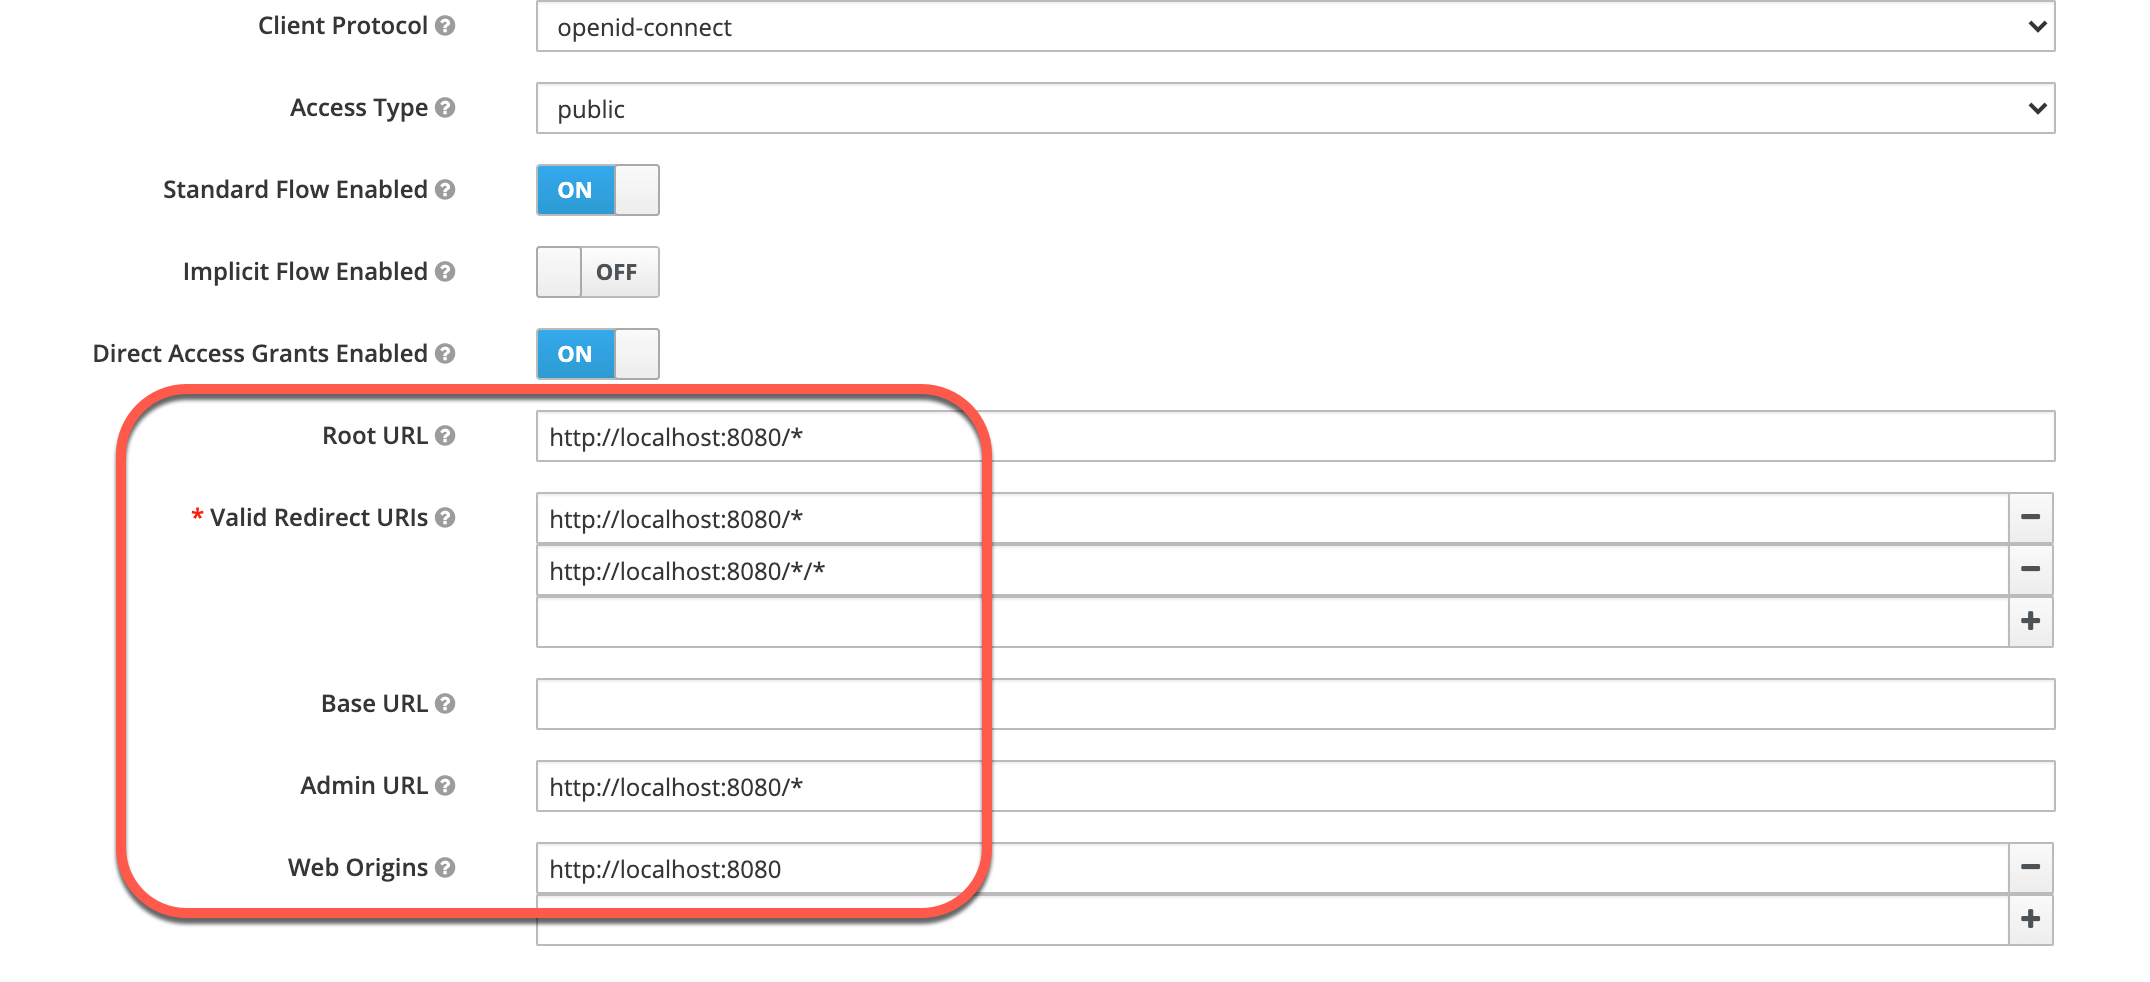
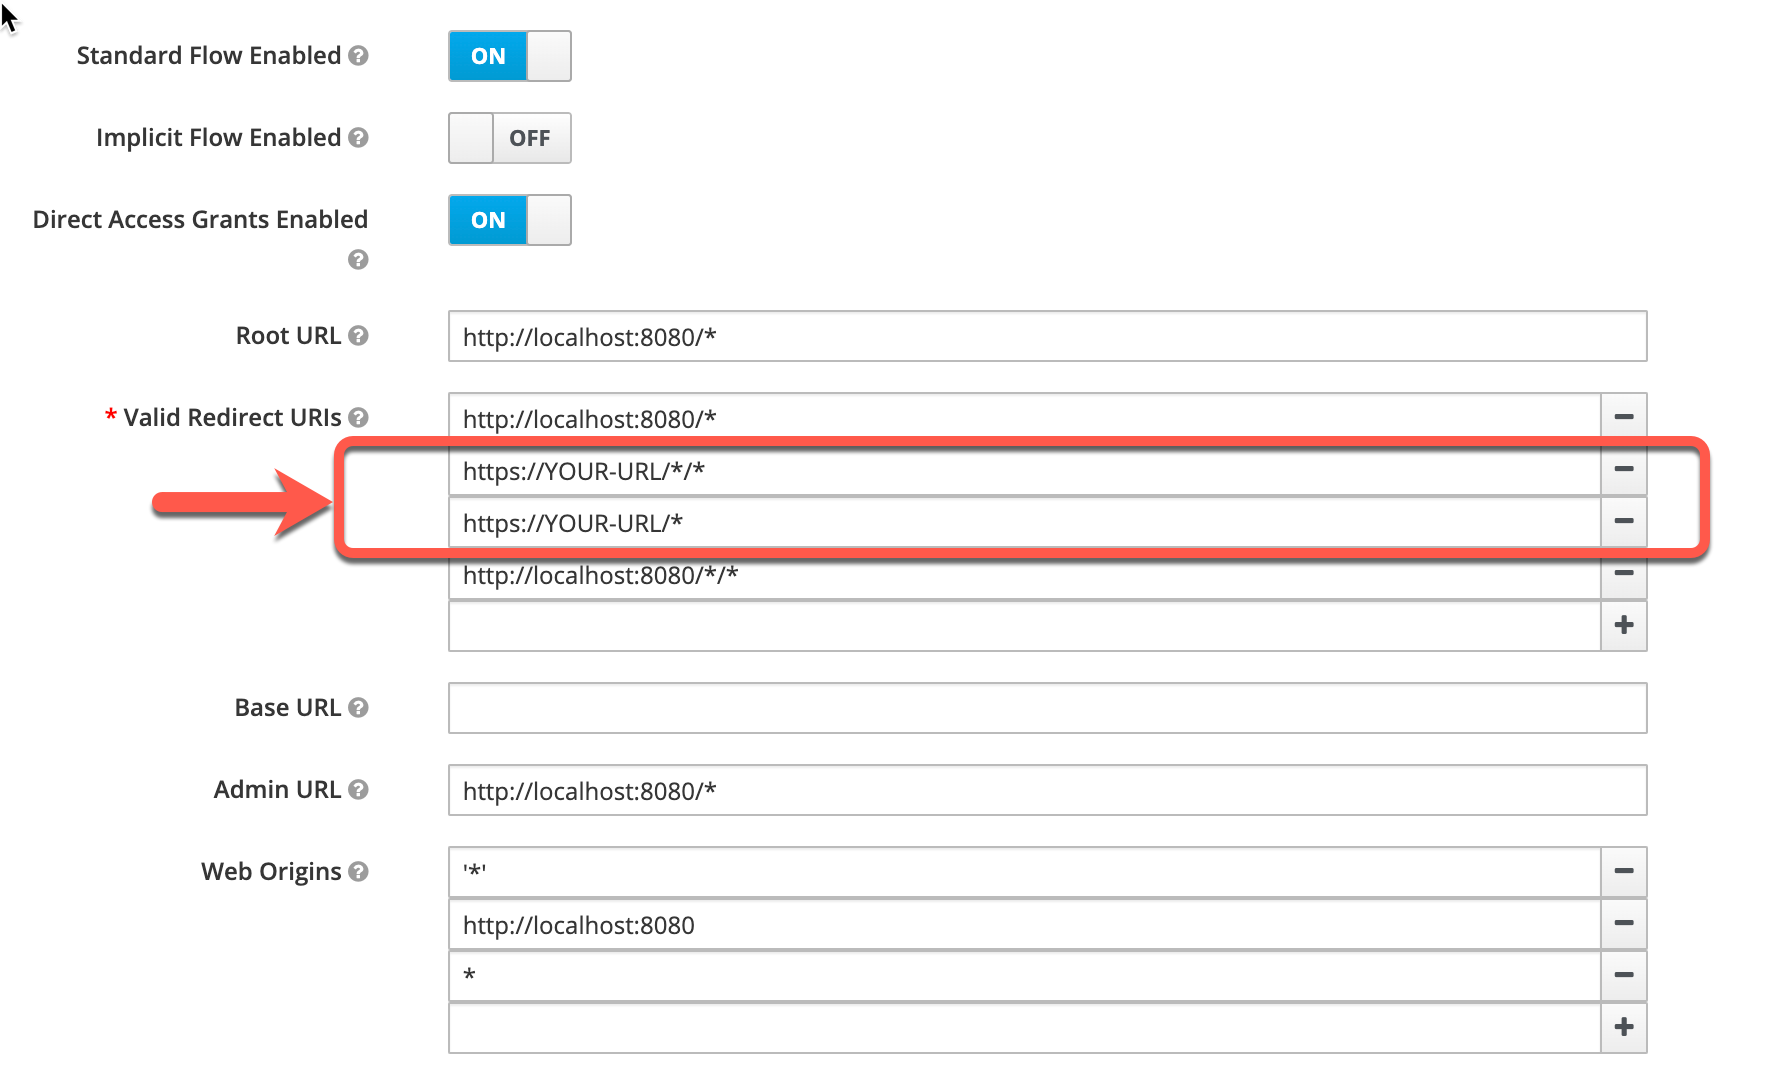
update

diff --git a/workshop/p-sec-exercise-01/README.md b/workshop/p-sec-exercise-01/README.md
@@ -103,18 +103,11 @@ web-app-659c4676d9-pw6f8    2/2     Running                      0          3h34
 
 ![](../../images/cns-ajust-client-redirect.png)
 
-* Ajust the client frontend URLs and URIs `http://localhost:8080` with valid redirect you get with the command:
+* Ajust the client frontend URIs `https://YOUR-URL:auth` with valid redirect URI you get with the command:
 
 ```sh
  echo https://$INGRESSURL
 ```
-
-Example:
-
-| Before | Changed  |
-| - | - |
-|![](../../images/cns-ajust-client-redirect-02.png)| ![](../../images/cns-ajust-client-redirect-03.png) |
-
 
 ### STEP 4: Open the Cloud Native Starter application in your browser
 
